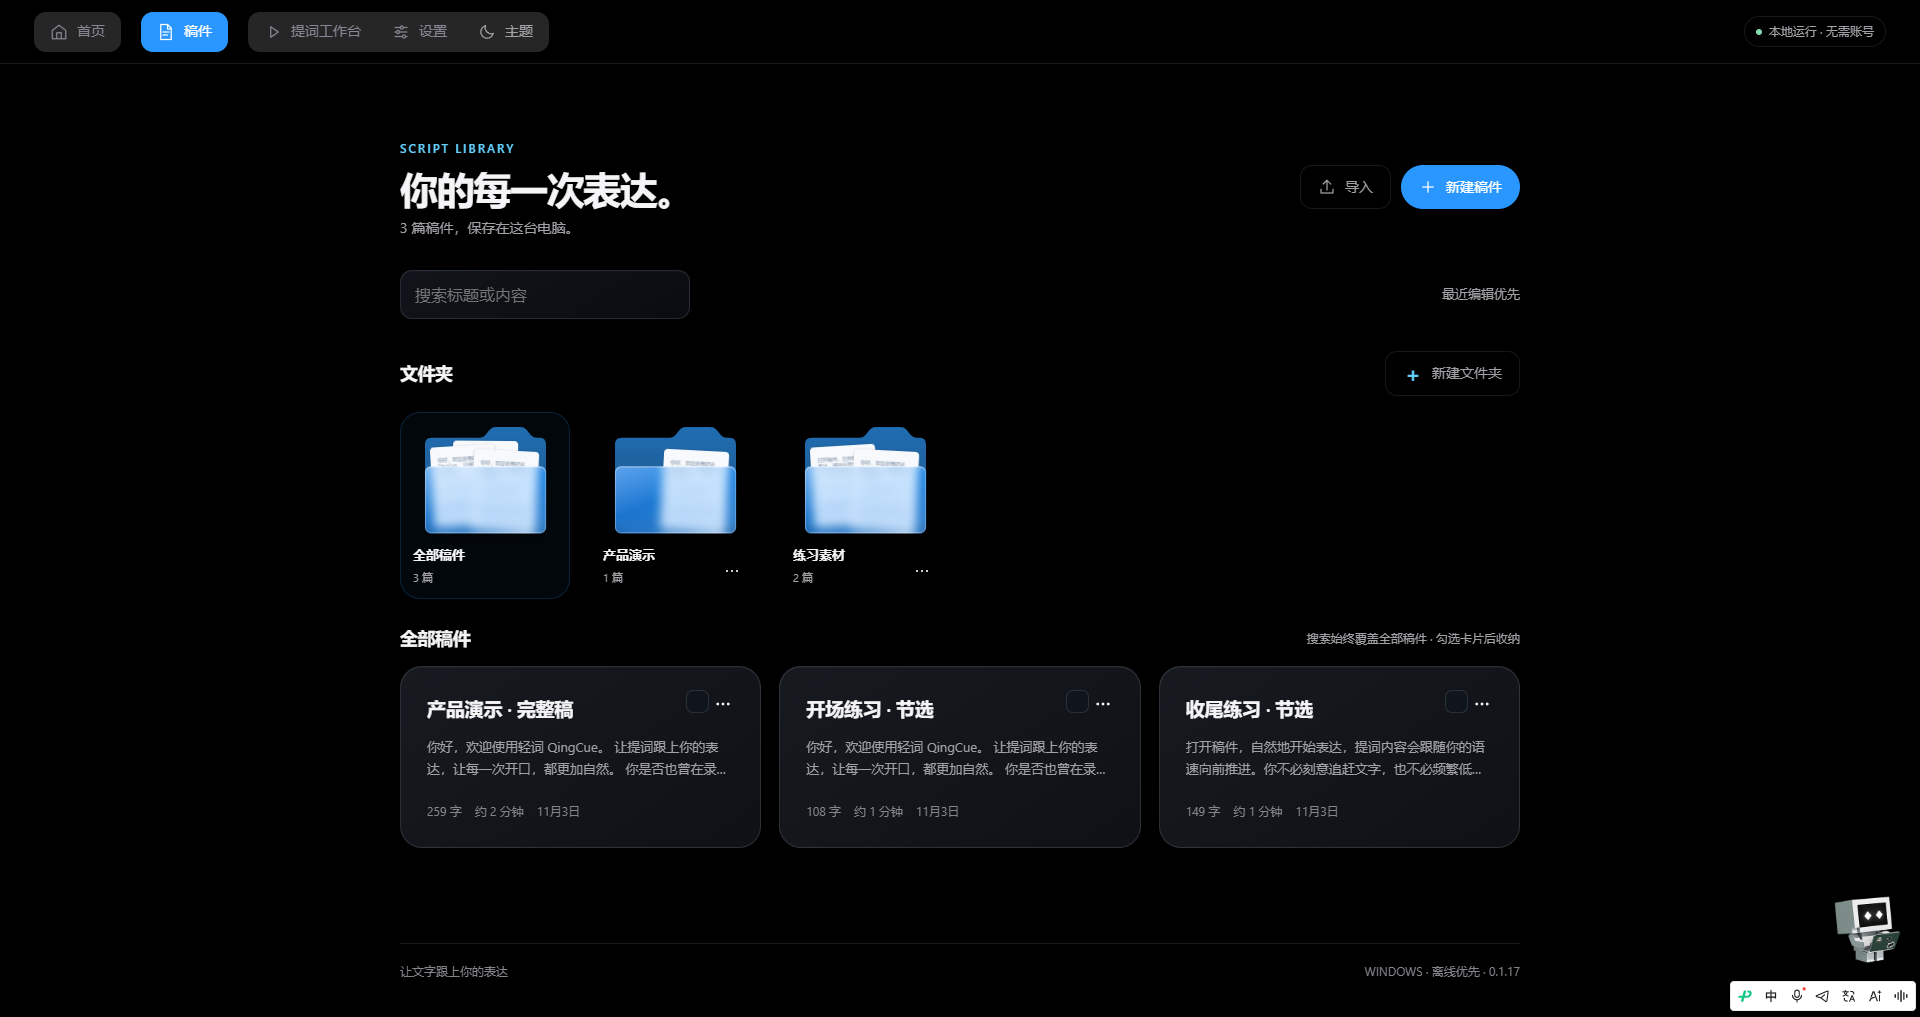
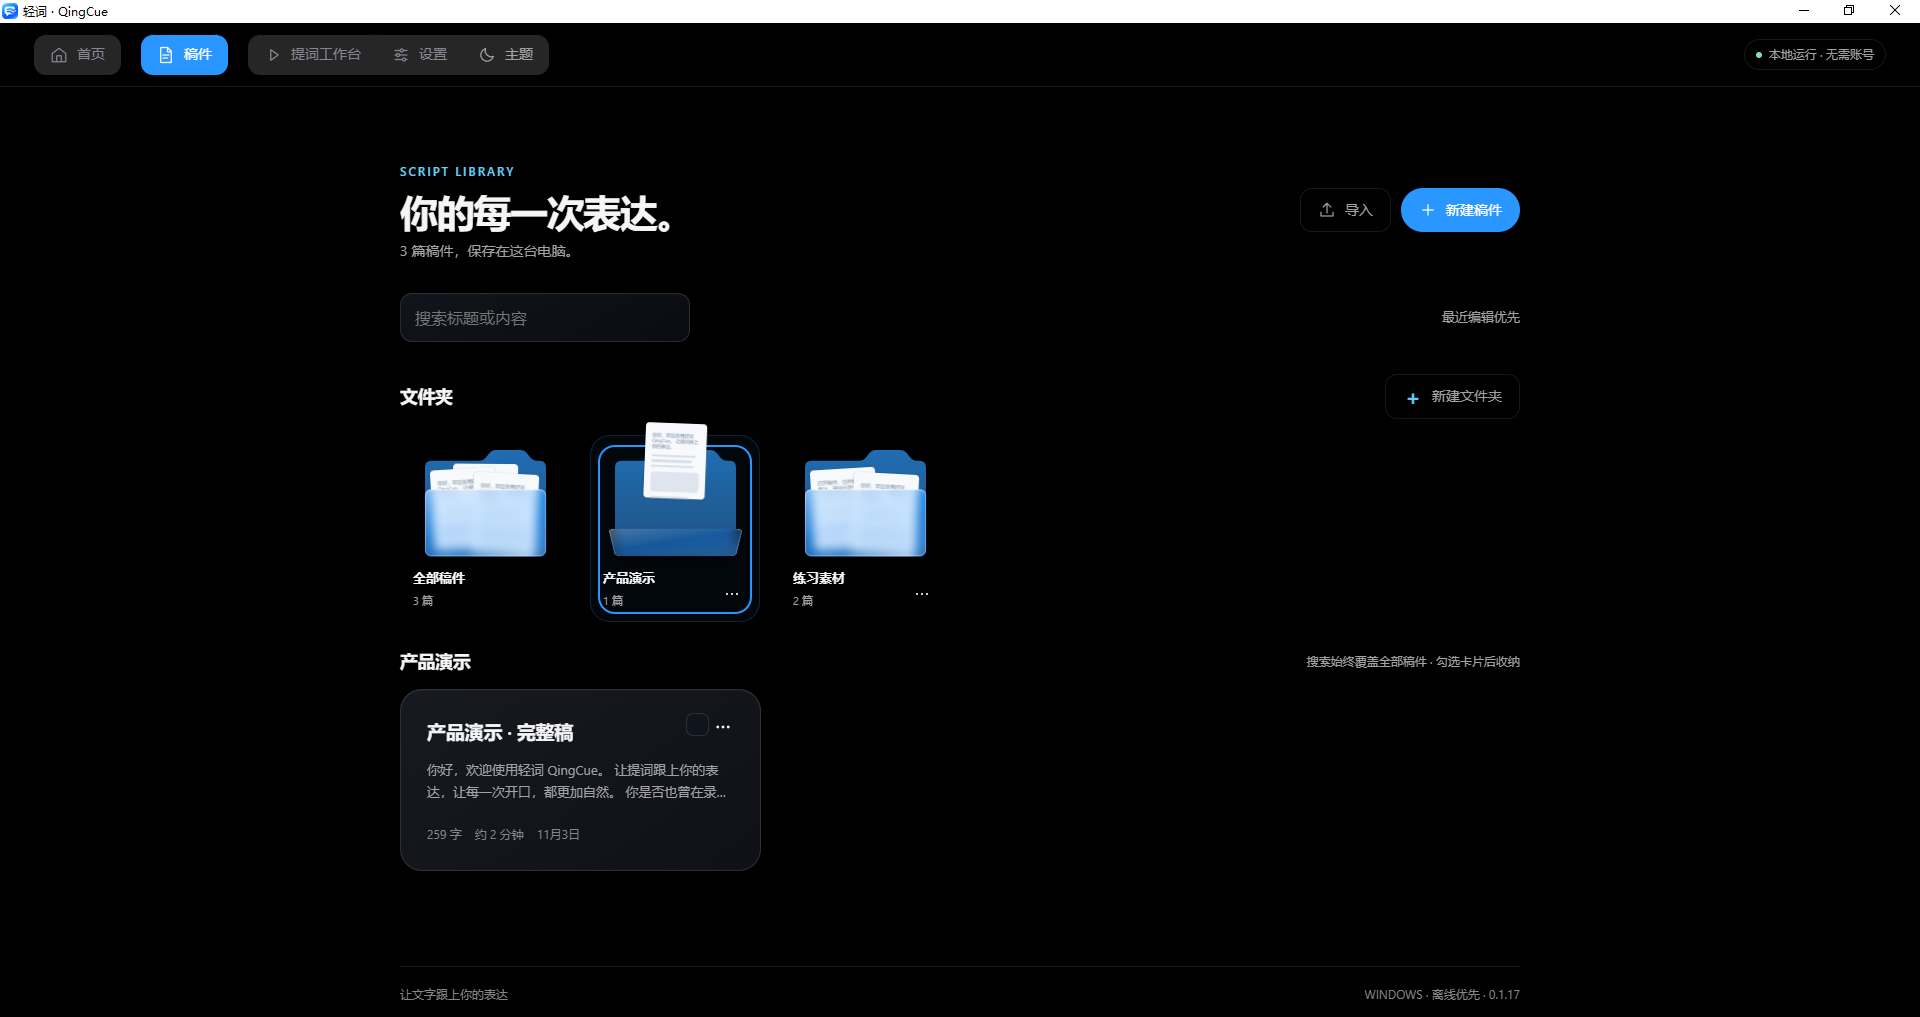
docs: 重拍产品页截图与演示，README 改为叙事式产品页

diff --git a/README.md b/README.md
@@ -6,20 +6,19 @@
 
 <p align="center"><strong>让文字，跟上你的表达。</strong></p>
 
-<p align="center">离线语音跟随提词器 · Windows 桌面端 · 语音与提词处理均在本机完成</p>
+<p align="center">Windows 桌面提词器：稿子在眼前，进度跟着你的语速走，声音与文字都留在本机。</p>
 
 <p align="center">
   <a href="https://github.com/jaychou1669/QingCue-Downloads/releases/tag/v0.1.17-r13.3"><strong>下载 Windows 版</strong></a>
-  &nbsp;·&nbsp; 最新版本 <code>v0.1.17-r13.3</code> &nbsp;·&nbsp; Windows 10 / 11 x64
+  &nbsp;·&nbsp; <code>v0.1.17-r13.3</code> &nbsp;·&nbsp; Windows 10 / 11 x64
 </p>
 
 <p align="center">
-  <img src="./assets/brand/badge-version.png" alt="版本 v0.1.17-r13.3" height="24">
-  <img src="./assets/brand/badge-platform.png" alt="Windows 10 / 11 x64" height="24">
-  <img src="./assets/brand/badge-status.png" alt="候选试用 Candidate" height="24">
+  <img src="./assets/brand/badge-version.png" alt="版本 v0.1.17-r13.3" height="22">
+  <img src="./assets/brand/badge-platform.png" alt="Windows 10 / 11 x64" height="22">
 </p>
 
-<p align="center"><sub>当前为<strong>候选试用版本</strong>：安装链路已做自动化验证，功能与真人现场朗读尚未完成正式验收。</sub></p>
+<p align="center"><sub>当前为候选试用版本：安装链路已完成自动化验证，功能与真人朗读的正式验收尚未完成。</sub></p>
 
 ---
 
@@ -29,85 +28,113 @@
   <img src="./assets/screenshots/workbench.png" alt="轻词 QingCue 提词工作台" width="100%">
 </p>
 
-<p align="center"><sub>提词工作台：左侧稿件目录、中间的当前句与上下文、右侧文字与画面设置，底部为语速趋势与控制栏。</sub></p>
+左侧是稿件目录与句子列表，中间是当前句与上下文，右侧是文字与画面参数，底部是进度与语速趋势。开场前三十秒，视线就已经落在该看的地方。
 
 ---
 
-## 功能
+## 核心功能
 
-<table>
-<tr>
-<td width="50%" valign="top">
-  <img src="./assets/screenshots/follow.png" alt="自然语音跟随提词" width="100%">
-  <p><strong>自然语音跟随提词</strong><br>
-  开口说话，提词按你的语速向前推进；停顿、回看或重复，位置都不会乱。<br>
-  <sub>画面取自回放演示，非真人朗读。</sub></p>
-</td>
-<td width="50%" valign="top">
-  <img src="./assets/screenshots/playback.png" alt="实时文字滑动" width="100%">
-  <p><strong>实时文字滑动</strong><br>
-  当前句高亮，前后文保留在视野内；定速模式下也能按设定节奏匀速推进。</p>
-</td>
-</tr>
-<tr>
-<td width="50%" valign="top">
-  <img src="./assets/screenshots/floating-bar.png" alt="悬浮提词窗" width="100%">
-  <p><strong>悬浮提词</strong><br>
-  独立置顶悬浮窗，可拖动、可缩放，放在镜头旁也能看清当前句。</p>
-</td>
-<td width="50%" valign="top">
-  <img src="./assets/screenshots/library-folders.png" alt="稿件与文件夹管理" width="100%">
-  <p><strong>稿件与文件夹管理</strong><br>
-  新建、导入、分类整理；稿件与设置只保存在本机。<br>
-  <sub>截图使用公开演示稿，未使用个人稿件。</sub></p>
-</td>
-</tr>
-<tr>
-<td width="50%" valign="top">
-  <img src="./assets/screenshots/preferences.png" alt="设置与本地能力" width="100%">
-  <p><strong>设置与本地能力</strong><br>
-  模型、麦克风、跟随引擎、诊断与快捷键集中在一处；字号、行距、字体与高亮在工作台右侧调整。</p>
-</td>
-<td width="50%" valign="top">
-  <img src="./assets/screenshots/diagnostics.png" alt="语音跟随诊断" width="100%">
-  <p><strong>语音跟随诊断</strong><br>
-  默认关闭，需要时手动开启；用于记录跟随过程与排查设备、识别问题。</p>
-</td>
-</tr>
-</table>
+### 自然语音跟随
+
+<img src="./assets/screenshots/follow.png" alt="语音跟随进行中" width="100%">
+
+你按自己的节奏说，提词按你的语速推进。停顿、回看或重复一句，位置不会乱跳。
+
+<sub>画面为回放样本驱动的真实运行截图，非真人朗读。</sub>
+
+### 逐词滑动
+
+<img src="./assets/screenshots/follow-scroll.png" alt="逐词滑动" width="100%">
+
+高亮跟着词走，而不是整段跳变。前后文始终留在视野里，眼睛不用来回找下一句。
+
+### 悬浮提词
+
+<img src="./assets/screenshots/floating-bar.png" alt="悬浮提词窗" width="100%">
+
+独立置顶窗口，放在镜头旁边也不遮挡主要内容；位置和大小都可以自己调。
+
+### 稿件管理
+
+<img src="./assets/screenshots/library-folders.png" alt="稿件库与文件夹" width="100%">
+
+稿件、文件夹与展开状态一目了然。分类只是本地整理，稿件内容不会被改写。
+
+### 个性化设置
+
+<img src="./assets/screenshots/preferences.png" alt="设置与本地能力" width="100%">
+
+模型、麦克风、跟随方式集中在一处；字号、行距、段间距与画面颜色在工作台右侧随手可调。
 
 ---
 
 ## 动态演示
 
 <p align="center">
-  <img src="./assets/demos/follow-demo.gif" alt="逐词跟随演示" width="760">
+  <img src="./assets/demos/follow-demo.gif" alt="语音跟随演示" width="880">
 </p>
 
-<p align="center"><sub>逐词跟随的真实运行画面：当前句随语音推进高亮，底部语速趋势同步变化。<br>
-<strong>演示由回放样本驱动，非真人朗读</strong>；样本音频由本机语音合成生成，画面为真实应用录制。</sub></p>
+<p align="center"><sub><strong>演示由回放样本驱动，非真人朗读。</strong>样本音频由本机语音合成生成，画面为真实应用录制，未做静态拼帧。</sub></p>
+
+- **开口即跟随**：开始后第一句立即进入跟随状态，不需要预热。
+- **停顿后可续读**：短暂停顿不会丢位置，接着读会从当前句继续。
+- **下一句自然衔接**：当前句结束时高亮前移，底部语速趋势同步变化。
 
 ---
 
-## 使用流程
+## 核心技术
 
-1. **打开软件**：安装后启动轻词 QingCue。语音跟随需要本机语音模型，可在「设置」中下载或导入；普通定速提词不需要模型。
-2. **导入稿件**：在「稿件」中新建或导入文稿，可按文件夹分类整理。
-3. **开始表达**：进入「提词工作台」，选择定速或语音跟随，点击「开始」。
-4. **文字自动跟随**：正常开口表达，提词随语速向前推进；需要时打开悬浮提词窗。
+<p align="center">
+  <img src="./assets/tech/architecture.png" alt="本地语音跟随分层架构" width="100%">
+</p>
+
+音频采集 → 本地流式识别 → 稿件对齐 → 进度稳定 → 连续滑动渲染。五层之间只传递必要的结果，识别与渲染互不阻塞。
+
+- **本地语音处理**：音频不出本机，识别在本机完成，断网也能继续用。
+- **流式识别与稿件对齐**：边说话边出字，再把文字对回稿件的句子位置。
+- **识别修正下的进度稳定**：识别结果被修正或重复时，阅读位置保持不回退。
+- **连续滑动与视觉同步**：位置变化以连续滚动呈现，趋势与进度同步更新。
+- **朗读异常容错**：漏读、跳读、重复朗读都不会让画面失控。
+- **低延迟切换**：换句时不需要额外等待。
+
+<sub>以上只说明处理分层与工程取舍，不涉及具体算法、参数或内部实现细节。</sub>
+
+---
+
+## 使用场景
+
+### 短视频口播
+
+<img src="./assets/scenes/scene-podcast.png" alt="短视频口播场景" width="100%">
+
+一条接一条地录，稿子跟得上语速，重录次数明显变少。
+
+### 视频录制
+
+<img src="./assets/scenes/scene-recording.png" alt="视频录制场景" width="100%">
+
+面对镜头不用低头找词，视线留在镜头上，表达更连贯。
+
+### 日常演讲
+
+<img src="./assets/scenes/scene-speaking.png" alt="演讲场景" width="100%">
+
+把悬浮窗放在视线边缘，台上不用背稿，也不会读成念稿。
+
+### 内容创作
+
+<img src="./assets/scenes/scene-writing.png" alt="内容创作场景" width="100%">
+
+边想边录，稿件按文件夹收好，下一次接着写、接着录。
 
 ---
 
 ## 下载与安装
 
-<p align="center">
-  <a href="https://github.com/jaychou1669/QingCue-Downloads/releases/tag/v0.1.17-r13.3"><strong>前往 Release 下载 v0.1.17-r13.3</strong></a>
-</p>
-
-| 文件 | 说明 |
-| --- | --- |
-| [QingCue-0.1.17-r13.3-e469484-win-x64.msi](https://github.com/jaychou1669/QingCue-Downloads/releases/download/v0.1.17-r13.3/QingCue-0.1.17-r13.3-e469484-win-x64.msi) | Windows x64 安装包（434,040,993 B） |
-| [SHA256SUMS.txt](https://github.com/jaychou1669/QingCue-Downloads/releases/download/v0.1.17-r13.3/SHA256SUMS.txt) | 安装包校验文件 |
+- 版本：`v0.1.17-r13.3`（候选试用）
+- 系统：Windows 10 / Windows 11，x64
+- 安装包：[QingCue-0.1.17-r13.3-e469484-win-x64.msi](https://github.com/jaychou1669/QingCue-Downloads/releases/download/v0.1.17-r13.3/QingCue-0.1.17-r13.3-e469484-win-x64.msi)（434,040,993 B）
+- 校验文件：[SHA256SUMS.txt](https://github.com/jaychou1669/QingCue-Downloads/releases/download/v0.1.17-r13.3/SHA256SUMS.txt)
 
 安装包 SHA-256：
 
@@ -115,44 +142,28 @@
[1 lines of base64/hex data omitted]
 ```
 
-校验方式（PowerShell）：
+安装：双击 MSI，按向导完成。安装包尚未做商业代码签名，Windows 可能弹出 SmartScreen 提示；确认文件来自本仓库并核对 SHA-256 后，选择「更多信息 → 仍要运行」。
 
-```powershell
-Get-FileHash .\QingCue-0.1.17-r13.3-e469484-win-x64.msi -Algorithm SHA256
-```
+卸载：Windows 设置 → 应用 → 已安装的应用 → 轻词 QingCue → 卸载。卸载会保留 `%LOCALAPPDATA%\QingCue` 下的稿件与本地模型，彻底清理可在卸载后手动删除该目录。
 
-**安装**：双击 MSI，按向导完成安装。安装包尚未做商业代码签名，Windows 可能提示 SmartScreen；确认文件来自本仓库并核对 SHA-256 后，可选择「更多信息 → 仍要运行」。
-
-**卸载**：Windows 设置 → 应用 → 已安装的应用 → 轻词 QingCue → 卸载。卸载会保留 `%LOCALAPPDATA%\QingCue` 下的稿件与本地模型；如需彻底清理，可在卸载后手动删除该目录。
-
-**系统要求**：Windows 10 / Windows 11，x64。
-
-> 当前为**候选试用版本**：可交付试用，不构成正式发布。安装生命周期已做自动化验证，仅代表安装链路，不代表功能与真人朗读验收。
+> 候选试用版本可交付试用，不构成正式发布。安装生命周期已做自动化验证，仅代表安装链路，不代表功能与真人朗读验收。
 
 ---
 
-## 技术说明
+## 技术文档与常见问题
 
-- [ARCHITECTURE.md](docs/ARCHITECTURE.md)：整体分层与各层职责。
-- [CAPABILITIES.md](docs/CAPABILITIES.md)：能力边界、适用场景与实验性范围。
-- [TECHNOLOGY.md](docs/TECHNOLOGY.md)：技术难点的抽象说明。
-- [TESTING.md](docs/TESTING.md)：已验证结论与未验证清单。
+- [ARCHITECTURE.md](docs/ARCHITECTURE.md)：整体分层与各层职责
+- [CAPABILITIES.md](docs/CAPABILITIES.md)：能力边界与适用场景
+- [TECHNOLOGY.md](docs/TECHNOLOGY.md)：技术难点的抽象说明
+- [TESTING.md](docs/TESTING.md)：已验证结论与未验证清单
 
----
+**麦克风没有反应？** 在 Windows「设置 → 隐私和安全性 → 麦克风」中允许桌面应用访问，并在应用内选择正确的输入设备。
 
-## 常见问题与反馈
+**一定要下载模型吗？** 普通定速提词不需要模型；语音跟随需要本机语音模型，可在「设置」中下载或导入。
 
-**安装时被 SmartScreen 拦截？**
-安装包尚未做商业代码签名。请先核对 SHA-256，再选择「更多信息 → 仍要运行」。
+**卸载后还有残留？** 卸载会保留 `%LOCALAPPDATA%\QingCue`，需要彻底清理时手动删除该目录。
 
-**麦克风没有反应？**
-在 Windows「设置 → 隐私和安全性 → 麦克风」中允许桌面应用访问麦克风，并在应用内选择正确的输入设备。
-
-**卸载后还有残留？**
-卸载会保留 `%LOCALAPPDATA%\QingCue`（稿件与本地模型）。需要彻底清理时，卸载后手动删除该目录。
-
-**如何反馈问题？**
-请通过本仓库的 [Issues](https://github.com/jaychou1669/QingCue-Downloads/issues) 反馈，并附上版本号、Windows 版本与复现步骤；请勿上传包含个人信息的稿件或录音。
+**怎么反馈问题？** 通过 [Issues](https://github.com/jaychou1669/QingCue-Downloads/issues) 反馈，附版本号、Windows 版本与复现步骤；请勿上传包含个人信息的稿件或录音。
 
 ---
 
